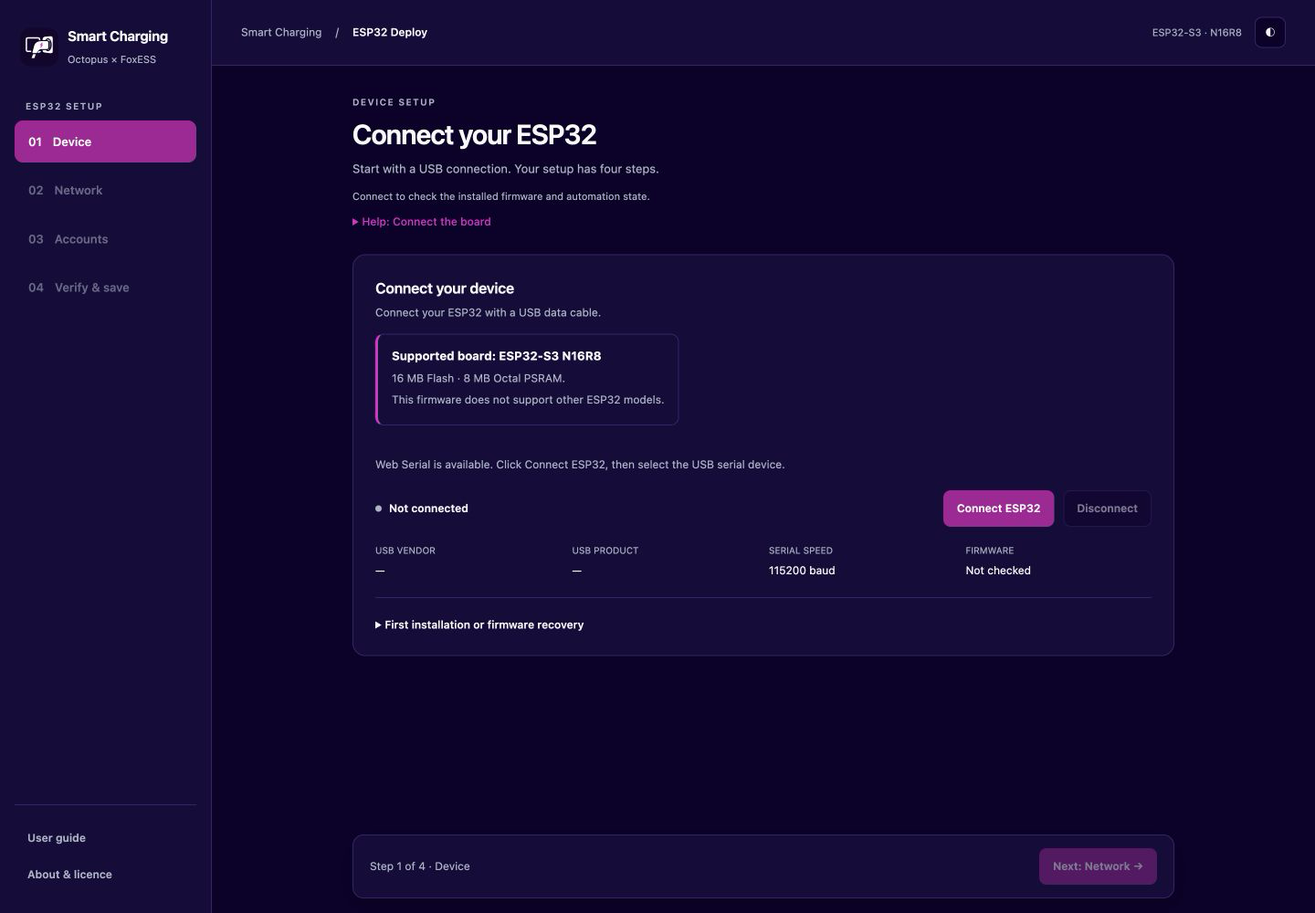
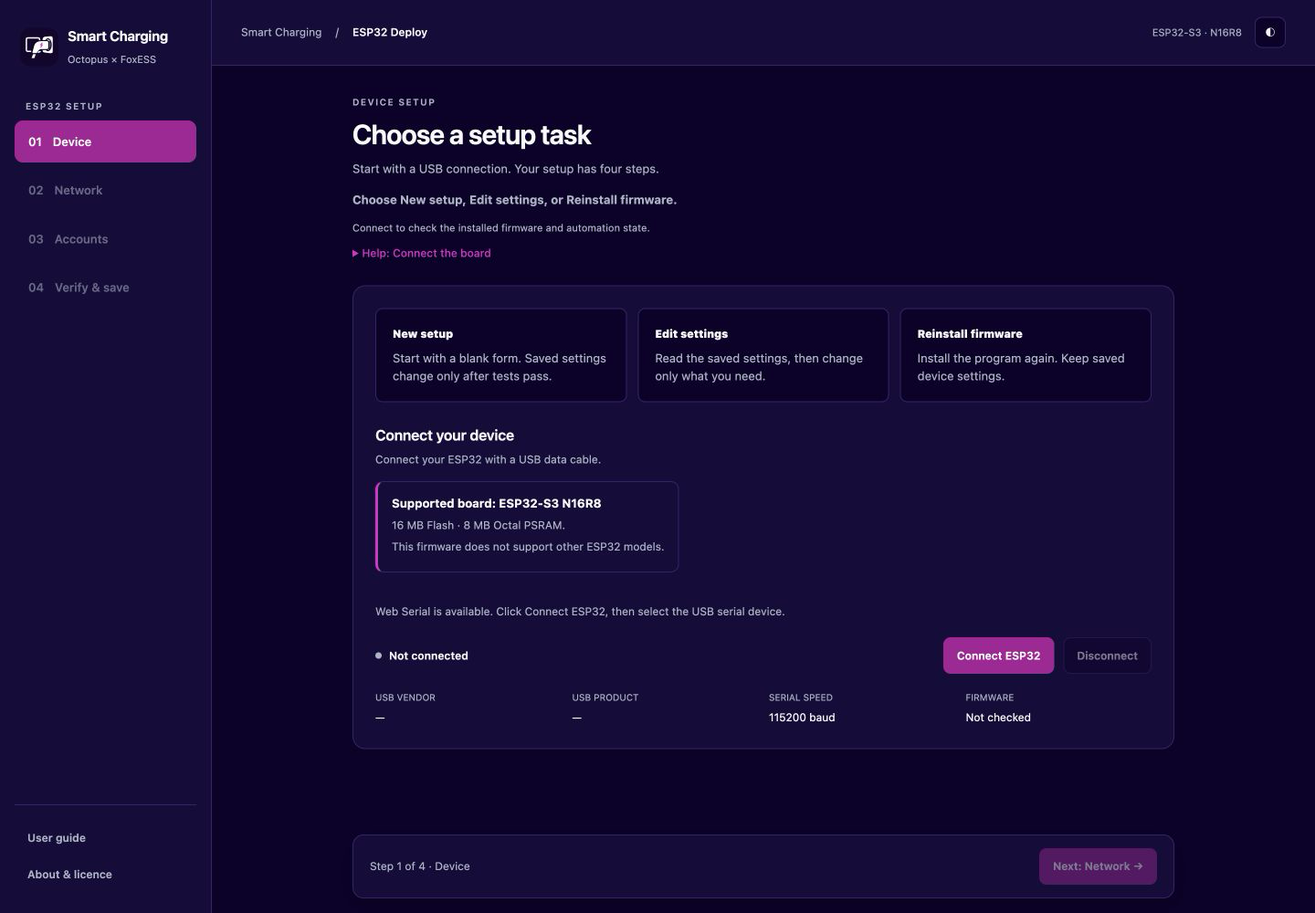
Separate new setup, settings edits and reinstall; shorten dark landing page

diff --git a/prototype/esp32-usb-test/client.js b/prototype/esp32-usb-test/client.js
@@ -9,6 +9,7 @@
   let nextId = 0, safeSave = false, networkTrial = false, runtimeTrial = false, suggestion = null, lanResetSupported=false, lanAccessEnabled=false, controllerEnabled=false;
   let activeStep=0,furthestStep=0,liveSupported=false,webConfigured=false,scanWhileRunning=false,networkSetupSupported=false;
   let dashboardPort=80,configuredDashboardPort=8787,portSupported=false;
+  let setupMode='auto';
   const pending = new Map();
   let readbackSupported=false,configProtected=false,configUnlocked=false,unlockPassword="",loadedSettings=false,savedConfig=null;
   const secretIds=["ssid","wifi-password","octopus-account","octopus-key","foxess-serial","foxess-key","fox-web-user","fox-web-password","fox-web-hash","config-current-password","config-new-password","config-confirm-password"];
@@ -23,6 +24,7 @@
   }
   function controls() {
     const locked = busy || window.esp32Flashing === true;
+    for(const mode of ['new','edit','reinstall'])$('mode-'+mode).disabled=locked;
     $('dashboard-port').disabled=!ready||locked||!portSupported;
     $('dashboard-port-save').disabled=!ready||locked||!portSupported;
     $('connect').disabled = !supported || !!port || locked;
@@ -46,9 +48,9 @@
     for(const id of ['octopus-test','octopus-save','foxess-test','foxess-save'])$(id).disabled=!ready||!configured||locked;
     for(const id of ['config-password-save','config-password-remove','config-unlock-button','config-skip','review-accounts'])$(id).disabled=!ready||locked||!readbackSupported;
     staticInputs.forEach(input=>{input.disabled=locked || $('network-mode').value!=='static';});
-    steps.forEach((name,index)=>$('nav-'+name).setAttribute('aria-disabled',String(index>furthestStep)));
+    steps.forEach((name,index)=>$('nav-'+name).setAttribute('aria-disabled',String(index>furthestStep||(setupMode==='reinstall'&&index>0))));
     $('wizard-back').disabled=locked;
-    $('wizard-next').disabled=locked || (activeStep===0 && (!ready || !safeSave));
+    $('wizard-next').disabled=locked || (activeStep===0 && (!ready || !safeSave || setupMode==='reinstall'));
     window.dispatchEvent?.(new Event('esp32-controls'));
   }
   function status(state, label, message = '') {
@@ -185,8 +187,9 @@
   async function operation(label, action) {
     if (!ready || busy) return;
     busy = true; status('busy',label);
-    try { await action(); if (port) status('connected','Firmware connected'); }
-    catch (error) { if (port) status('error','Operation failed',error.message); }
+    $('step-feedback').textContent=label;$('step-feedback').dataset.error='false';
+    try { await action(); if (port) status('connected','Firmware connected');$('step-feedback').textContent=''; }
+    catch (error) { $('step-feedback').textContent=error.message;$('step-feedback').dataset.error='true';if (port) status('error','Operation failed',error.message); }
     finally { busy = false; controls(); }
   }
 
@@ -213,7 +216,8 @@
       safeSave = hello.capabilities?.validate_before_save === true && hello.capabilities?.network_trial === true && hello.capabilities?.ip_suggestion === true;
       networkTrial = false; suggestion = null;
       $('handshake').textContent = 'Verified'; renderResult(hello);
-      if(configured&&readbackSupported){
+      if(setupMode==='auto')selectMode(configured?'edit':'new');
+      if(configured&&readbackSupported&&setupMode==='edit'){
         $('config-readback').hidden=false;$('config-unlock').hidden=!configProtected;
         if(!configProtected)await readSavedSettings('');
         else $('config-read-status').textContent='Saved settings are protected. Unlock to read them, or skip and enter replacement values.';
@@ -372,6 +376,7 @@
         }catch(error){$('network-setup-result').textContent=error.message;throw error;}
       }
       invalidateNetwork();
+      $('network-info').textContent='Testing the entered Wi-Fi with DHCP… Keep USB connected.';
       const config={ssid:$('ssid').value,password:$('wifi-password').value,ip_mode:'dhcp'};
       try {
         const result=await send('network_trial',{config},90000);
@@ -379,7 +384,7 @@
         if(networkTrial)runtimeTrial=true;
         $('network-info').textContent=networkTrial ? `Temporary DHCP connection: ${result.ip} · Gateway ${result.gateway} · Mask ${result.netmask} · DNS ${result.dns || 'not provided'}. Nothing saved.` : 'Wi-Fi trial did not connect.';
         renderResult(result);
-      } finally { config.password=''; }
+      } catch(error){$('network-info').textContent='Wi-Fi test failed: '+error.message;throw error;} finally { config.password=''; }
     });
   }
   $('network-test').addEventListener('click',()=>testNetwork());
@@ -480,7 +485,7 @@
     document.documentElement.dataset.theme=document.documentElement.dataset.theme==='dark'?'light':'dark';
   });
   const steps=['device','network','accounts','verify'];
-  const titles=['Connect your ESP32','Set up your network','Connect your accounts','Verify & save'];
+  const titles=['Choose a setup task','Set up your network','Connect your accounts','Verify & save'];
   const descriptions=['Start with a USB connection. Your setup has four steps.','Choose 2.4 GHz Wi-Fi and check the connection before continuing.','Enter the credentials that the ESP32 will test directly.','The ESP32 saves only after every network and service check passes.'];
   const guides=[
     ['Connect the board','Use a USB data cable. Close other serial tools. Select the USB-UART port. Install firmware only if needed.'],
@@ -489,8 +494,9 @@
     ['What happens next','Keep USB connected until confirmation. Saved settings survive restarts. History uses RAM by default. Optional hourly Flash saving is available in Dashboard Settings.']
   ];
   function showStep(index,focus=true){
-    if(busy || window.esp32Flashing || index<0 || index>furthestStep)return;
+    if(busy || window.esp32Flashing || index<0 || index>furthestStep || (setupMode==='reinstall'&&index>0))return;
     activeStep=index;
+    $('step-feedback').textContent='';
     steps.forEach((name,i)=>{
       $(name).hidden=i!==index;
       const link=$('nav-'+name);
@@ -498,7 +504,7 @@
       link.setAttribute('aria-disabled',String(i>furthestStep));
     });
     form.hidden=index===0;
-    $('wizard-title').textContent=titles[index];$('wizard-description').textContent=descriptions[index];
+    $('wizard-title').textContent=index===0?({new:'New ESP32 setup',edit:'Edit saved settings',reinstall:'Reinstall firmware'}[setupMode]||titles[0]):titles[index];$('wizard-description').textContent=descriptions[index];
     $('guide-title').textContent='Help: '+guides[index][0];$('guide-text').textContent=guides[index][1];
     $('wizard-back').hidden=index===0;$('wizard-next').hidden=index===3;
     $('wizard-next').textContent=['Next: Network →','Next: Accounts →','Next: Verify & save →',''][index];
@@ -509,15 +515,34 @@
   for(const [index,step] of steps.entries())$('nav-'+step).addEventListener('click',event=>{event.preventDefault();showStep(index);});
   $('wizard-back').addEventListener('click',()=>showStep(activeStep-1));
   $('wizard-next').addEventListener('click',()=>{
-    if(busy || window.esp32Flashing || activeStep===0&&(!ready||!safeSave))return;
+    if(busy || window.esp32Flashing || activeStep===0&&(!ready||!safeSave||setupMode==='reinstall'))return;
     if(activeStep===1){
-      if(!networkTrial&&!loadedSettings){$('network-info').textContent='Run Test Wi-Fi with DHCP before continuing.';return;}
+      if(!networkTrial&&!loadedSettings){$('network-info').textContent='Wi-Fi is not verified. Select Test Wi-Fi with DHCP before continuing.';$('step-feedback').textContent='Network check required. Test the entered Wi-Fi before opening Accounts.';$('step-feedback').dataset.error='true';$('network-test').scrollIntoView?.({block:'center'});$('network-test').focus?.();return;}
       if(!collectConfig(false))return;
       if($('network-mode').value==='static'&&!unchangedSavedConfiguration()&&!$('ip-review').checked){$('network-info').textContent='Review the fixed IP against your router DHCP pool, then select the acknowledgement.';return;}
     }
     if(activeStep===2&&!collectConfig(true))return;
     furthestStep=Math.max(furthestStep,activeStep+1);showStep(activeStep+1);
   });
+  function selectMode(mode){
+    setupMode=mode;
+    if(activeStep===0)$('wizard-title').textContent={new:'New ESP32 setup',edit:'Edit saved settings',reinstall:'Reinstall firmware'}[mode];
+    for(const name of ['new','edit','reinstall'])$('mode-'+name).setAttribute('aria-pressed',String(mode===name));
+    $('firmware-install-panel').hidden=mode!=='reinstall';
+    $('firmware-install-panel').open=mode==='reinstall';
+    $('flow-mode').textContent={new:'New setup · Existing device settings remain until all checks pass.',edit:'Edit settings · Read saved values, then review your changes.',reinstall:'Reinstall firmware · Keep saved configuration. Reconnect after installation.'}[mode];
+    $('step-feedback').textContent='';
+    controls();
+  }
+  $('mode-new').addEventListener('click',()=>{if(busy)return;clearForm();invalidateNetwork();furthestStep=0;selectMode('new');});
+  $('mode-edit').addEventListener('click',async()=>{
+    if(busy)return;selectMode('edit');
+    if(!ready)return;
+    if(!configured){$('step-feedback').textContent='No saved configuration was found. Select New setup.';return;}
+    $('config-readback').hidden=false;$('config-unlock').hidden=!configProtected;
+    if(!configProtected)await operation('Reading saved settings…',()=>readSavedSettings(''));
+  });
+  $('mode-reinstall').addEventListener('click',()=>{if(busy)return;selectMode('reinstall');});
   window.esp32Setup={disconnect,isConnected:()=>!!port,isBusy:()=>busy,refreshControls:controls};
   modeChanged(); showStep(0,false);status('idle','Not connected');
 })();

diff --git a/website/site.css b/website/site.css
@@ -1,3 +1,9 @@
 /* Copyright (C) 2026 SCKC. GPL-3.0-or-later. */
 :root{color-scheme:dark;--bg:#100426;--card:#1c103b;--muted:#b5accd;--border:#3a245e;--accent:#fa45c5;--fill:#b90099;--text:#faf7ff}*{box-sizing:border-box}body{margin:0;background:var(--bg);color:var(--text);font:15px/1.7 system-ui,-apple-system,sans-serif}a{color:inherit;text-decoration:none}button{font:inherit;cursor:pointer}button,a{-webkit-tap-highlight-color:transparent}button:focus-visible,a:focus-visible{outline:3px solid var(--accent);outline-offset:4px}h1,h2,h3,p,figure{margin:0}h1,h2,h3{line-height:1.13;letter-spacing:-.035em}p{color:var(--muted)}.site-header{max-width:1280px;margin:auto;display:flex;justify-content:space-between;align-items:center;padding:24px 32px;gap:24px}.brand{display:flex;align-items:center;gap:12px;font-weight:700;line-height:1.4}.brand small{display:block;font-size:11px;color:var(--muted);font-weight:400}.site-header nav{display:flex;gap:24px;font-size:13px;color:var(--muted)}main{max-width:1280px;margin:auto;padding:0 32px}.eyebrow{font-size:10px;font-weight:750;letter-spacing:.16em;color:var(--accent)}.hero{display:grid;grid-template-columns:1fr 1.05fr;align-items:center;gap:56px;padding:68px 0 76px}.hero h1{font-size:clamp(36px,4.2vw,58px);margin:18px 0 24px;letter-spacing:-.05em}.hero em{font-style:normal;color:var(--accent)}.lead{font-size:16px;max-width:48ch}.entry-points{display:grid;gap:12px;margin:32px 0 14px}.entry{border:1px solid var(--border);border-radius:12px;padding:18px 22px;background:var(--card);transition:transform .15s,border-color .15s}.entry:hover{transform:translateY(-2px);border-color:var(--accent)}.entry.primary{background:var(--fill);border-color:var(--fill)}.entry>span{display:flex;justify-content:space-between;font-size:17px;font-weight:700}.entry small{display:block;font-size:11px;margin-top:4px;color:#ddd3ee}.browser-note,.fine{font-size:12px}.hero-preview{transform:perspective(1200px) rotateY(-5deg);box-shadow:0 30px 90px #0008;border-radius:16px;overflow:hidden;border:1px solid var(--border);background:var(--card)}figure img{display:block;width:100%;height:auto}figcaption{font-size:11px;color:var(--muted);padding:12px 18px}.native-options{display:grid;grid-template-columns:1fr 1fr;gap:48px;padding:32px;background:var(--card);border:1px solid var(--border);border-radius:18px}.native-options h2{font-size:26px;margin:12px 0}.native-options p+p{margin-top:14px}.download-links{display:grid;align-content:center;gap:10px}.download-links>a{display:flex;align-items:center;justify-content:space-between;gap:16px;border:1px solid var(--border);padding:14px 18px;border-radius:10px;font-size:14px;font-weight:650}.download-links>a span{font-size:11px;color:var(--muted);font-weight:400}.download-links>a:hover{border-color:var(--accent)}.download-links .text-link{border:0;padding:10px 0;color:var(--accent);font-size:12px}.choose,.showcase{padding-top:80px}.section-title{max-width:660px;margin-bottom:28px}.section-title h2{font-size:34px;margin:12px 0 16px}.edition-grid{display:grid;grid-template-columns:repeat(4,1fr);gap:14px}.edition-grid>a{display:flex;flex-direction:column;padding:24px;border:1px solid var(--border);border-radius:14px;background:var(--card)}.edition-grid>a:hover{border-color:var(--accent)}.edition-number{font-size:11px;color:var(--accent);margin-bottom:25px}.edition-grid h3{font-size:21px;margin-bottom:18px}.edition-grid p{font-size:13px;flex:1}.edition-grid small{font-size:10px;color:var(--muted);margin-top:22px}.edition-grid b{font-size:12px;color:var(--accent);margin-top:12px}.preview-tabs,.edition-tabs{display:flex;gap:8px;flex-wrap:wrap;margin-bottom:18px}.preview-tabs button,.edition-tabs button{border:1px solid var(--border);border-radius:9px;background:var(--card);color:var(--muted);padding:10px 18px;font-size:12px;font-weight:650}.preview-tabs button[aria-selected=true],.edition-tabs button[aria-selected=true]{background:var(--fill);border-color:var(--fill);color:white}.showcase figure{background:var(--card);border:1px solid var(--border);border-radius:16px;overflow:hidden}.showcase img{max-height:670px;object-fit:contain;background:#10002b}footer{max-width:1280px;margin:70px auto 0;padding:28px 32px 40px;border-top:1px solid var(--border);font-size:11px}footer a{display:inline-block;color:var(--accent);margin-top:14px}.guide-heading{margin:38px 0 28px}.guide-heading h1{font-size:40px;margin:12px 0 18px}.guide-layout{display:grid;grid-template-columns:245px minmax(0,1fr);min-height:620px;border:1px solid var(--border);border-radius:16px;overflow:hidden;background:var(--card)}#chapters{display:flex;flex-direction:column;gap:5px;padding:16px;border-right:1px solid var(--border);align-self:start}#chapters button{border:1px solid transparent;border-radius:8px;color:var(--muted);background:transparent;text-align:left;padding:10px 12px;font-size:12px;line-height:1.5}#chapters button[aria-current=page]{background:var(--bg);border-color:var(--border);color:var(--accent)}#guide-article{min-width:0;padding:36px 42px}#guide-article h2{font-size:30px;margin-bottom:24px}#guide-article h3{font-size:20px;margin:32px 0 16px}#guide-article p{margin:15px 0}#guide-article ol{padding-left:24px;color:var(--muted)}#guide-article li{padding:4px 0}#guide-article a{color:var(--accent);text-decoration:underline}#guide-article code,#guide-article pre{font-family:ui-monospace,monospace;font-size:12px}#guide-article pre{overflow:auto;padding:16px;border:1px solid var(--border);border-radius:8px;background:var(--bg)}.guide-table{overflow:auto}table{width:100%;border-collapse:collapse;font-size:12px}td,th{border:1px solid var(--border);padding:10px;min-width:110px;text-align:left;vertical-align:top}th{color:var(--text)}td{color:var(--muted)}.edition-intro{padding:18px 22px;border:1px solid var(--border);border-radius:12px;background:var(--bg);margin-bottom:28px}.edition-intro strong{color:var(--text)}
 @media(max-width:1000px){.hero{gap:30px;grid-template-columns:1fr 1fr}.edition-grid{grid-template-columns:repeat(2,1fr)}}@media(max-width:700px){.site-header{padding:20px;gap:12px}.site-header nav{gap:12px;font-size:11px}.brand{font-size:13px}.brand img{width:34px;height:34px}main{padding:0 20px}.hero{display:flex;flex-direction:column;padding:36px 0 42px;gap:32px}.hero h1{font-size:43px}.hero-preview{transform:none;width:100%}.native-options{grid-template-columns:1fr;padding:24px;gap:20px}.choose,.showcase{padding-top:48px}.section-title h2{font-size:29px}.edition-grid{grid-template-columns:1fr 1fr;gap:10px}.edition-grid>a{padding:18px}.edition-grid h3{font-size:19px}.guide-layout{display:block}#chapters{display:flex;flex-direction:row;overflow:auto;border-right:0;border-bottom:1px solid var(--border);gap:6px}#chapters button{flex:none;max-width:170px}#guide-article{padding:24px 20px}.guide-heading h1{font-size:32px}.edition-tabs{display:grid;grid-template-columns:1fr 1fr}.preview-tabs button{padding:9px 12px}footer{padding:24px 20px;margin-top:44px}}@media(prefers-reduced-motion:reduce){*{transition:none!important;scroll-behavior:auto!important}}
+
+.home-resources{display:flex;justify-content:center;flex-wrap:wrap;gap:12px 32px;margin:24px 0}.home-resources a{color:var(--accent);font-size:14px}
+.home-resources+footer{margin-top:24px}
+.choose .section-title{margin-bottom:20px}.choose{padding-top:16px}.edition-grid>a{padding:20px}.edition-number{display:none}
+.edition-grid p{font-size:13px;line-height:1.5;margin:10px 0}.edition-grid h3{font-size:21px}.edition-grid small{font-size:11px}
+@media(max-width:600px){.hero{padding-top:24px;padding-bottom:24px;gap:24px}.hero-preview{display:none}.edition-grid{grid-template-columns:1fr 1fr}.edition-grid>a{padding:16px}.edition-grid p{display:none}.edition-grid h3{font-size:18px}.edition-grid small{display:block;min-height:36px}.edition-grid b{font-size:12px}.choose .section-title h2{font-size:27px}.home-resources{justify-content:flex-start;margin-top:20px}}

diff --git a/website/index.html b/website/index.html
@@ -2,7 +2,6 @@
 <html lang="en"><head><meta charset="utf-8"><meta name="viewport" content="width=device-width,initial-scale=1"><meta name="description" content="Protect your home battery while your EV charges. Choose ESP32 USB deployment or the browser edition."><title>Smart Charging · Octopus &amp; FoxESS</title><link rel="icon" href="octopus-foxess.svg" type="image/svg+xml"><link rel="stylesheet" href="site.css"></head>
 <body><header class="site-header"><a class="brand" href="./"><img src="octopus-foxess.svg" width="40" height="40" alt=""><span>Smart Charging<small>Octopus Energy &amp; FoxESS</small></span></a><nav aria-label="Website"><a href="guide.html">User guide</a><a href="https://github.com/samuelkcc/octopus-foxess-smart-charging">GitHub ↗</a></nav></header>
 <main><section class="hero"><div class="hero-copy"><p class="eyebrow">YOUR HOME ENERGY WORKSPACE · /*VERSION*/</p><h1>Your EV, charging.<br><em>Your home, protected.</em></h1><p class="lead">Connect Octopus charging windows to your FoxESS battery. Review schedules, manage rules, and keep your home energy in view.</p><div class="entry-points"><a class="entry primary" href="esp32/"><span>ESP32 Web Deploy <b aria-hidden="true">↗</b></span><small>USB setup · Use desktop Chrome</small></a><a class="entry" href="app/"><span>HTML web app <b aria-hidden="true">↗</b></span><small>Run in your browser · Keep it open and awake</small></a></div><p class="browser-note">Safari cannot deploy ESP32 over USB. Use desktop Chrome, or a setup app below.</p></div><figure class="hero-preview"><img src="screenshots/esp32-dashboard.png" alt="Smart Charging ESP32 dashboard with demonstration readings"><figcaption>ESP32 dashboard · demonstration data</figcaption></figure></section>
-<section class="native-options"><div><p class="eyebrow">PREFER AN APP FOR USB SETUP?</p><h2>Same setup. Your choice of tool.</h2><p>The Mac and Windows tools configure ESP32 over USB. The board runs independently after setup.</p><p class="fine">Supported board: <strong>ESP32-S3 N16R8</strong> · 16 MB Flash · 8 MB Octal PSRAM.</p></div><div class="download-links"><a href="/*DOWNLOAD*/SmartCharging-ESP32-Setup-/*VERSION*/-macOS-universal.zip">Mac setup app <span>Universal ZIP ↗</span></a><a href="/*DOWNLOAD*/SmartCharging-ESP32-Setup-/*VERSION*/-Windows-x64.exe">Windows setup app <span>x64 EXE ↗</span></a><a class="text-link" href="guide.html#esp32/3">Read the ESP32 deployment chapter →</a></div></section>
-<section class="choose"><div class="section-title"><p class="eyebrow">FIND YOUR STARTING POINT</p><h2>One dashboard. Four ways to run it.</h2><p>Choose your automation host. Each guide explains setup, daily use, and supported functions.</p></div><div class="edition-grid"><a href="guide.html#esp32/1"><span class="edition-number">01</span><h3>ESP32</h3><p>For a compact, independent local controller. Set up over USB, then use your phone or computer.</p><small>Local network · No Cloudflare</small><b>ESP32 guide →</b></a><a href="guide.html#pi/1"><span class="edition-number">02</span><h3>Raspberry Pi</h3><p>For an always-on service with optional protected remote access and file-based History.</p><small>Background worker · Cloudflare supported</small><b>Pi guide →</b></a><a href="guide.html#portable/1"><span class="edition-number">03</span><h3>Portable app</h3><p>For a computer that stays on. Use the native app and its local dashboard.</p><small>Keep the host app open</small><b>Portable guide →</b></a><a href="guide.html#web/1"><span class="edition-number">04</span><h3>HTML web app</h3><p>For browser-based use. Configure your accounts and Google Apps Script relay.</p><small>Keep the browser open and awake</small><b>Web guide →</b></a></div></section>
-<section class="showcase"><div class="section-title"><p class="eyebrow">TAKE A LOOK</p><h2>From setup to everyday control.</h2><p>Explore the interface before connecting your accounts. All images use demonstration data.</p></div><div class="preview-tabs" role="tablist" aria-label="Interface previews"><button role="tab" aria-selected="true" aria-controls="preview-panel" data-preview="esp32-dashboard.png" data-caption="Dashboard · power, charging windows and tariff charts">Dashboard</button><button role="tab" aria-selected="false" aria-controls="preview-panel" data-preview="esp32-deploy.png" data-caption="USB deployment · Device, Network, Accounts, Verify & save">ESP32 deployment</button><button role="tab" aria-selected="false" aria-controls="preview-panel" data-preview="esp32-account-setup.png" data-caption="Account setup · API and optional WebSocket configuration">Account setup</button><button role="tab" aria-selected="false" aria-controls="preview-panel" data-preview="history.png" data-caption="History · recorded power and battery readings">History</button></div><figure id="preview-panel" role="tabpanel"><img id="preview-image" src="screenshots/esp32-dashboard.png" alt="Dashboard demonstration"><figcaption id="preview-caption">Dashboard · power, charging windows and tariff charts</figcaption></figure></section></main>
+<section class="choose"><div class="section-title"><p class="eyebrow">FIND YOUR STARTING POINT</p><h2>Choose your setup guide.</h2><p>Open one guide for your host. Detailed instructions stay on its own page.</p></div><div class="edition-grid"><a href="guide.html#esp32/1"><span class="edition-number">01</span><h3>ESP32</h3><p>For a compact, independent local controller. Set up over USB, then use your phone or computer.</p><small>Local network · No Cloudflare</small><b>ESP32 guide →</b></a><a href="guide.html#pi/1"><span class="edition-number">02</span><h3>Raspberry Pi</h3><p>For an always-on service with optional protected remote access and file-based History.</p><small>Background worker · Cloudflare supported</small><b>Pi guide →</b></a><a href="guide.html#portable/1"><span class="edition-number">03</span><h3>Portable app</h3><p>For a computer that stays on. Use the native app and its local dashboard.</p><small>Keep the host app open</small><b>Portable guide →</b></a><a href="guide.html#web/1"><span class="edition-number">04</span><h3>HTML web app</h3><p>For browser-based use. Configure your accounts and Google Apps Script relay.</p><small>Keep the browser open and awake</small><b>Web guide →</b></a></div></section>
+<p class="home-resources"><a href="guide.html#esp32/3">Mac and Windows USB setup downloads →</a><a href="gallery.html">View interface gallery →</a></p></main>
 <footer><p>Independent software by SCKC · GPL-3.0-or-later.</p><p>Octopus Energy and FoxESS do not endorse or support this project.</p><a href="guide.html#esp32/12">About, licences &amp; support →</a></footer><script src="site.js"></script></body></html>

diff --git a/prototype/esp32-usb-test/index.html b/prototype/esp32-usb-test/index.html
@@ -16,10 +16,11 @@
 <div>
 <header class="appbar"><div class="breadcrumb"><span>Smart Charging</span><span>/</span><strong>ESP32 Deploy</strong></div><div class="top-actions"><span class="edition">ESP32-S3 · N16R8</span><button id="theme-toggle" type="button" aria-label="Switch colour theme">◐</button></div></header>
 <main>
-<div class="page-heading"><div class="eyebrow">DEVICE SETUP</div><h1 id="wizard-title" tabindex="-1">Connect your ESP32</h1><p id="wizard-description">Start with a USB connection. Your setup has four steps.</p><p class="development-note" id="firmware-note">Connect to check the installed firmware and automation state.</p><details class="wizard-help" aria-label="Current step guide"><summary id="guide-title">Connect the board</summary><p id="guide-text">Use a USB data cable. Close other serial tools. Select the USB-UART port.</p></details></div>
+<div class="page-heading"><div class="eyebrow">DEVICE SETUP</div><h1 id="wizard-title" tabindex="-1">Choose a setup task</h1><p id="wizard-description">Start with a USB connection. Your setup has four steps.</p><p id="flow-mode" class="flow-mode" role="status">Choose New setup, Edit settings, or Reinstall firmware.</p><p id="step-feedback" class="help" role="status" aria-live="polite"></p><p class="development-note" id="firmware-note">Connect to check the installed firmware and automation state.</p><details class="wizard-help" aria-label="Current step guide"><summary id="guide-title">Connect the board</summary><p id="guide-text">Use a USB data cable. Close other serial tools. Select the USB-UART port.</p></details></div>
 
 <div class="workspace wizard"><div class="setup-stack">
 <section class="card wizard-panel" id="device" aria-labelledby="usb-title">
+ <div class="setup-modes" role="group" aria-label="Setup task"><button id="mode-new" type="button" aria-pressed="false"><strong>New setup</strong><span>Start with a blank form. Saved settings change only after tests pass.</span></button><button id="mode-edit" type="button" aria-pressed="false"><strong>Edit settings</strong><span>Read the saved settings, then change only what you need.</span></button><button id="mode-reinstall" type="button" aria-pressed="false"><strong>Reinstall firmware</strong><span>Install the program again. Keep saved device settings.</span></button></div>
  <div class="card-heading"><span class="step">1</span><div><h2 id="usb-title">Connect your device</h2><p>Connect your ESP32 with a USB data cable.</p><div class="notice supported-board"><strong>Supported board: ESP32-S3 N16R8</strong><p>16 MB Flash · 8 MB Octal PSRAM.</p><p>This firmware does not support other ESP32 models.</p></div></div></div>
  <p id="compatibility" class="help"></p>
  <div class="connection-row"><div id="status" class="status" data-state="idle" role="status" aria-live="polite"><span class="dot"></span><span id="status-text">Not connected</span></div><div class="actions"><button id="connect" class="primary" type="button">Connect ESP32</button><button id="disconnect" type="button" disabled>Disconnect</button></div></div>
@@ -27,7 +28,7 @@
  <dl><div><dt>USB VENDOR</dt><dd id="vendor">—</dd></div><div><dt>USB PRODUCT</dt><dd id="product">—</dd></div><div><dt>SERIAL SPEED</dt><dd>115200 baud</dd></div><div><dt>FIRMWARE</dt><dd id="handshake">Not checked</dd></div></dl>
  <section id="config-readback" class="subsection" hidden><h3>Saved configuration</h3><p id="config-read-status" role="status"></p><div id="config-unlock" hidden><label for="config-current-password">Config Password</label><div class="secret-field"><input type="password" id="config-current-password" autocomplete="off" maxlength="128"><button type="button" class="secret-eye" id="eye-config-current-password" aria-label="Show config current password" aria-pressed="false"><svg viewBox="0 0 24 24" fill="none" stroke="currentColor" stroke-width="1.8" aria-hidden="true"><path d="M2 12s3.5-7 10-7 10 7 10 7-3.5 7-10 7S2 12 2 12Z"/><circle cx="12" cy="12" r="3"/></svg></button></div><div class="actions"><button id="config-unlock-button" type="button">Unlock &amp; read settings</button><button id="config-skip" type="button">Skip reading · enter replacement settings</button></div></div><button id="review-accounts" type="button">Review account settings</button></section>
  <details class="subsection" id="lan-recovery" hidden><summary>LAN access recovery</summary><p class="help">If you forgot your optional LAN access code, physical USB setup can turn off LAN protection. Wi-Fi, API settings and automation rules are kept.</p><label class="check"><input id="reset-lan-consent" type="checkbox"><span>Turn off LAN access protection on this physically connected ESP32.</span></label><button id="reset-lan-access" type="button" disabled>Reset LAN access</button></details>
- <details class="subsection"><summary>First installation or firmware recovery</summary><p class="help">Install Smart Charging firmware on an ESP32-S3 with 16 MB flash and 8 MB octal PSRAM.</p><p class="help">Disconnect setup before installing. Select the USB-UART port. If connection fails, hold BOOT while pressing RESET.</p>
+ <details id="firmware-install-panel" class="subsection" hidden><summary>Firmware installation and recovery</summary><p class="help">Install Smart Charging firmware on an ESP32-S3 with 16 MB flash and 8 MB octal PSRAM.</p><p class="help">Disconnect setup before installing. Select the USB-UART port. If connection fails, hold BOOT while pressing RESET.</p>
  <label class="check"><input id="flash-board" type="checkbox"><span>I checked that this board is an ESP32-S3 N16R8.</span></label>
  <label class="check"><input id="flash-consent" type="checkbox"><span>Install firmware on this board. Keep its saved configuration.</span></label>
  <div class="actions firmware-actions"><button id="install-firmware" type="button" disabled>Install firmware</button></div><progress id="flash-progress" class="progress" max="100" value="0" hidden></progress><p id="flash-status" class="help" role="status">Installation preserves the configuration partition. Keep USB connected until verification finishes.</p>

diff --git a/website/guide.js b/website/guide.js
@@ -1,4 +1,4 @@
 // Copyright (C) 2026 SCKC. GPL-3.0-or-later.
 const data=JSON.parse(document.getElementById('guide-data').textContent),tabs=[...document.querySelectorAll('[data-edition]')],nav=document.getElementById('chapters'),article=document.getElementById('guide-article');
-function render(){let [edition,number]=location.hash.slice(1).split('/');if(!data.editions[edition])edition='esp32';const selected=data.editions[edition],chapters=data.chapters.filter(c=>selected.chapters.includes(c.number));let chapter=chapters.find(c=>c.number===Number(number))||chapters[0];for(const tab of tabs)tab.setAttribute('aria-selected',String(tab.dataset.edition===edition));nav.replaceChildren();for(const item of chapters){const button=document.createElement('button');button.type='button';button.textContent=item.title;button.setAttribute('aria-current',item===chapter?'page':'false');button.addEventListener('click',()=>{location.hash=edition+'/'+item.number;});nav.append(button);}article.innerHTML='<div class="edition-intro"><strong>'+selected.name+'</strong><p>'+selected.intro+'</p></div>'+(chapter.byEdition?.[edition]||chapter.html);document.title=chapter.title+' · '+selected.name+' · Smart Charging';}
+function render(){let [edition,number]=location.hash.slice(1).split('/');if(!data.editions[edition])edition='esp32';const selected=data.editions[edition],chapters=data.chapters.filter(c=>selected.chapters.includes(c.number));let chapter=chapters.find(c=>c.number===Number(number))||chapters[0];for(const tab of tabs)tab.setAttribute('aria-selected',String(tab.dataset.edition===edition));nav.replaceChildren();for(const item of chapters){const button=document.createElement('button');button.type='button';button.textContent=item.title;button.setAttribute('aria-current',item===chapter?'page':'false');button.addEventListener('click',()=>{location.hash=edition+'/'+item.number;});nav.append(button);}article.innerHTML='<div class="edition-intro"><strong>'+selected.name+'</strong><p>'+selected.intro+'</p>'+(edition==='esp32'?'<p><a href="/*DOWNLOAD*/SmartCharging-ESP32-Setup-/*VERSION*/-macOS-universal.zip">Mac USB setup app</a> · <a href="/*DOWNLOAD*/SmartCharging-ESP32-Setup-/*VERSION*/-Windows-x64.exe">Windows USB setup app</a></p>':'')+'</div>'+(chapter.byEdition?.[edition]||chapter.html);document.title=chapter.title+' · '+selected.name+' · Smart Charging';}
 for(const tab of tabs)tab.addEventListener('click',()=>{location.hash=tab.dataset.edition+'/1';});addEventListener('hashchange',render);render();

diff --git a/website/gallery.html b/website/gallery.html
@@ -1,0 +1,1 @@
+<!doctype html><html lang="en"><head><meta charset="utf-8"><meta name="viewport" content="width=device-width,initial-scale=1"><title>Interface gallery · Smart Charging</title><link rel="stylesheet" href="site.css"></head><body><header class="site-header"><a class="brand" href="./"><img src="octopus-foxess.svg" width="40" height="40" alt=""><span>Smart Charging<small>Interface gallery</small></span></a><nav><a href="./">Home</a><a href="guide.html">User guide</a></nav></header><main><section class="showcase"><div class="section-title"><p class="eyebrow">TAKE A LOOK</p><h2>From setup to everyday control.</h2><p>Explore the interface before connecting your accounts. All images use demonstration data.</p></div><div class="preview-tabs" role="tablist" aria-label="Interface previews"><button role="tab" aria-selected="true" aria-controls="preview-panel" data-preview="esp32-dashboard.png" data-caption="Dashboard · power, charging windows and tariff charts">Dashboard</button><button role="tab" aria-selected="false" aria-controls="preview-panel" data-preview="esp32-deploy.png" data-caption="USB deployment · Device, Network, Accounts, Verify & save">ESP32 deployment</button><button role="tab" aria-selected="false" aria-controls="preview-panel" data-preview="esp32-account-setup.png" data-caption="Account setup · API and optional WebSocket configuration">Account setup</button><button role="tab" aria-selected="false" aria-controls="preview-panel" data-preview="history.png" data-caption="History · recorded power and battery readings">History</button></div><figure id="preview-panel" role="tabpanel"><img id="preview-image" src="screenshots/esp32-dashboard.png" alt="Dashboard demonstration"><figcaption id="preview-caption">Dashboard · power, charging windows and tariff charts</figcaption></figure></section></main><footer><p>Demonstration data · SCKC · GPL-3.0-or-later</p></footer><script src="site.js"></script></body></html>

diff --git a/prototype/esp32-usb-test/styles.css b/prototype/esp32-usb-test/styles.css
@@ -25,3 +25,11 @@ main{padding-bottom:126px}.wizard-navigation{position:fixed;bottom:16px;left:264
 .supported-board{margin:14px 0;border-left:3px solid var(--accent)}.supported-board strong{display:block;color:var(--text-main);font-size:13px}.supported-board p{margin:5px 0}
 
 .rail-footer{margin-top:auto;padding-top:16px;border-top:1px solid var(--border)}.rail-footer button{width:100%;text-align:left;background:transparent;color:var(--text-muted);border:0}.secret-field{display:flex;align-items:stretch;position:relative;min-width:0;width:100%;margin:6px 0 12px}.secret-field input{width:100%;min-width:0;margin:0;padding-right:48px}.secret-field .secret-eye{position:absolute;right:3px;top:3px;bottom:3px;min-height:0;width:38px;padding:8px;display:grid;place-items:center;border:0;background:transparent}.secret-eye svg{width:20px;height:20px;pointer-events:none}.secret-eye[aria-pressed=true]{color:var(--accent)}#config-readback .actions{margin:12px 0}@media(max-width:700px){.rail-footer{display:flex;gap:8px;padding-top:8px}.rail-footer button{width:auto}}
+
+.setup-modes{display:grid;grid-template-columns:repeat(3,minmax(0,1fr));gap:12px;margin-bottom:24px}
+.setup-modes button{display:flex;flex-direction:column;text-align:left;gap:8px;min-width:0;padding:18px;white-space:normal;line-height:1.5}
+.setup-modes button span{color:var(--text-muted);font-size:13px;font-weight:400}
+.setup-modes button[aria-pressed="true"]{border-color:#f500c4;box-shadow:inset 0 0 0 1px #f500c4}
+.flow-mode{font-weight:700;color:var(--text-main);margin-top:14px}
+#step-feedback[data-error="true"]{color:#ffb4b4}
+@media(max-width:700px){.setup-modes{grid-template-columns:1fr}}

diff --git a/docs/USER-GUIDE.md b/docs/USER-GUIDE.md
@@ -36,6 +36,23 @@ Mode Scheduler applies the programmed periods. Outside those periods, Remaining 
 
 ## 3. Deploy ESP32
 
+### Select the setup task
+
+| Entry | Use this for | Saved settings |
+|---|---|---|
+| New setup | Enter a complete replacement configuration | Replaced only after all checks pass |
+| Edit settings | Read and change the existing configuration | Loaded with sensitive fields masked |
+| Reinstall firmware | Install or repair the program | Retained by the installer |
+
+1. Select the task on the Device page.
+2. For New setup or Edit settings, select **Connect ESP32**.
+3. For Reinstall firmware, follow the separate installation panel.
+
+If no task was selected, connection selects Edit settings for a configured board. It selects New setup for an unconfigured board.
+Changing the task does not write to the board. New setup clears the tool's form.
+The firmware installer does not erase saved settings. After installation, reconnect to review or change them.
+
+
 Supported hardware is ESP32-S3 N16R8, with 16 MB Flash and 8 MB Octal PSRAM. Other ESP32 models are unsupported.
 
 Bluetooth is disabled. Setup uses USB. Dashboards use Wi-Fi.

diff --git a/RELEASE_NOTES.md b/RELEASE_NOTES.md
@@ -14,6 +14,7 @@ The full check and native firmware build passed. USB scanning found 21 nearby ac
 Rules and operator state matched before and after the application update.
 
 The website presents ESP32 Web Deploy and HTML web app as its two main entries.
+Detailed downloads, edition guides, and the interface gallery use separate pages.
 Native deployment downloads and chapter-based edition guides appear below.
 Mobile toolbars omit the duplicate page name. API badges stay left and the operator switch stays right.
 
@@ -103,3 +104,6 @@ New screenshots contain demonstration data only. Native Windows and physical iPh
 The USB network test now requests explicit confirmation before disabling automation.
 It preserves other rules and Pause. The inverter retains its programmed schedule.
 After network setup, enable automation in General settings.
+
+The deployment tool separates New setup, Edit settings, and Reinstall firmware.
+Network test errors appear beside the controls. Next explains any required check.

diff --git a/docs/FEATURE-PARITY.md b/docs/FEATURE-PARITY.md
@@ -8,7 +8,8 @@
 - Failed confirmation does not start a network trial. Entered form values remain available.
 - Native runtime and serial mocks cover these transitions without live schedule commands.
 - Pi and web Welcome entry, Portable Account setup, and guide chapters were reviewed with isolated services.
-- The website has two main entries, native deployment downloads, edition tabs, and chapter navigation.
+- The website has two main entries. Downloads, edition chapters, and the interface gallery use separate pages.
+- USB setup separates New setup, Edit settings, and Reinstall firmware. Native serial mocks cover each entry.
 - All published interface screenshots were recaptured from isolated demonstration services.
 
 Windows execution, continuous WebSocket operation, and long-term Flash endurance remain verification limits.

diff --git a/CHANGELOG.md b/CHANGELOG.md
@@ -1,5 +1,6 @@
 # 2.4.1 — 6 November 2026
 
+- Separate New setup, Edit settings, and Reinstall firmware. Show failed Wi-Fi tests beside the Network controls.
 - Add a concise website with two main entries, edition tabs, chapter navigation, and interface previews.
 - Remove the redundant mobile page-name row and align badges left with the operator switch right.
 - Replace mobile help text symbols with aligned SVG guide and information icons in all editions.
